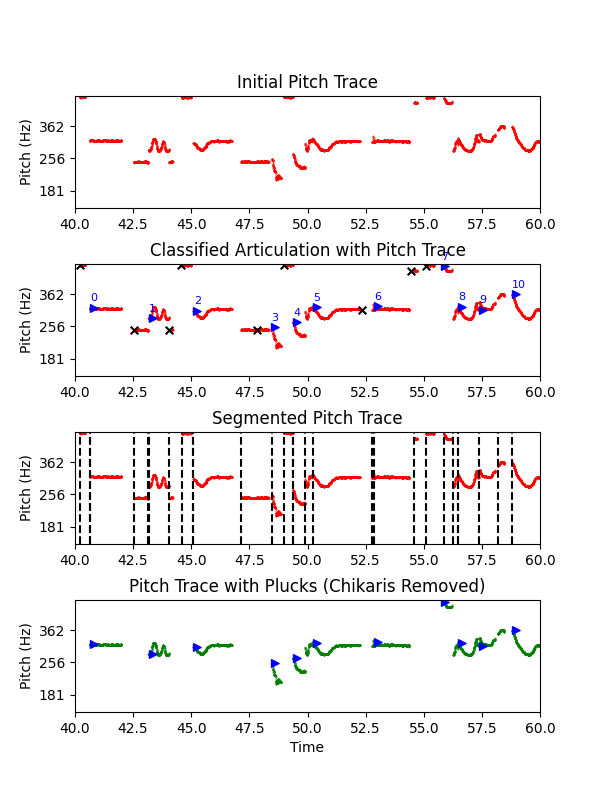
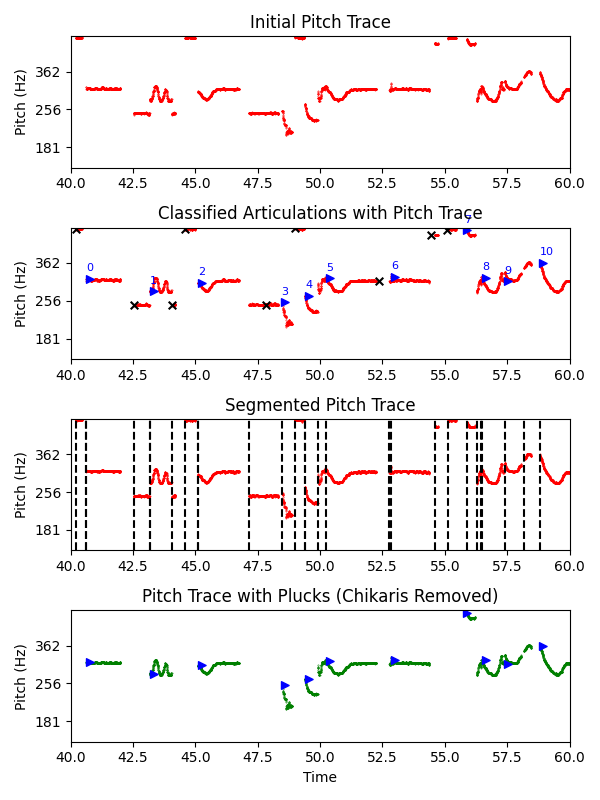
formatting

diff --git a/python/auto_transcribe/melodic_contour.py b/python/auto_transcribe/melodic_contour.py
@@ -141,7 +141,7 @@ def make_contour_plot_with_onsets(ax, log_pitch, log_fund, start, end, colors,
               marker='x', color='black', s=30, 
               label='Chikari Onsets')
     ax.set_xlim([start, end])
-    ax.set_title("Classified Articulation with Pitch Trace")
+    ax.set_title("Classified Articulations with Pitch Trace")
 
 def make_segmented_contour_plot(ax, log_pitch, log_fund, start, end, colors, 
                                 pluck_onset_idxs, chikari_onset_idxs, idx_groups):
@@ -202,6 +202,7 @@ def get_contour(audio: np.ndarray, idx: int, pluck_onsets: np.ndarray,
     pitch, confidence = ppm(eq_loud_audio)
     pitch[pitch == 0] = np.nan
     num_frames = len(pitch)
+    print("Frames Per Second: ", num_frames / 20)
     amp_envelope = ess.Envelope()(eq_loud_audio)
     amp_frame_size = len(amp_envelope) // len(pitch)
     # max_amplitude = np.array([np.max(amp_envelope[i * frame_size:(i + 1) * frame_size]) for i in range(num_frames)])
@@ -270,7 +271,7 @@ def get_contour(audio: np.ndarray, idx: int, pluck_onsets: np.ndarray,
     
 
         
-        
+    plt.tight_layout()
     plt.savefig(f'./python/auto_transcribe/melodic_contours/contour_{idx}.png')
     plt.close()
     save_contour_synth(idx, log_pitch, filtered_index_groups, start, end, audio)
